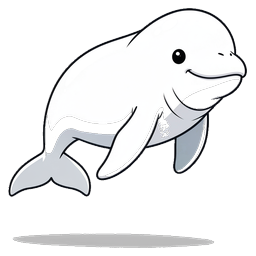
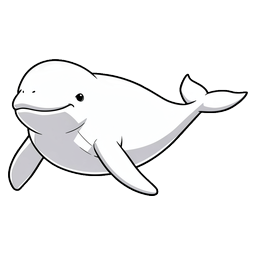
Finish batch_normal_03: 17 new anime-cel species, 325 total
Completes the batch that stalled on 2026-08-11 when the ComfyUI host
went unreachable (bullshark/thresher/goblinshark timed out, 14 reef fish
were never attempted). All 100 of batch 03 now log OK.

Also reruns beluga and bowhead, which shipped earlier with a detached
drop shadow the background remover leaves behind - it only clears
regions close to the corner colour and connected to an edge, so a
mid-grey shadow blob survives. bowhead additionally had a garbled text
artifact across the top. Found by scanning all 325 sprites for opaque
components detached from the main subject; numbat also flags but that
is its tail, and it is old painted-style art due for the restyle pass.

Verified via live bundle load: 325 PHOTO_ART entries, every one
resolving against DEX, no orphaned files.

diff --git a/game.part2.jsx b/game.part2.jsx
@@ -346,6 +346,7 @@ const PHOTO_ART = {
   "alpaca": true,
   "amazonriverdolphin": true,
   "andeancat": true,
+  "angelfish": true,
   "arcticfox": true,
   "arcticfox_j": true,
   "arctichare": true,
@@ -380,9 +381,12 @@ const PHOTO_ART = {
   "bonobo": true,
   "bottlenose": true,
   "bowhead": true,
+  "boxfish": true,
   "brownhyena": true,
   "brydeswhale": true,
+  "bullshark": true,
   "bushdog": true,
+  "butterflyfish": true,
   "camel": true,
   "capuchin": true,
   "capybara": true,
@@ -397,6 +401,7 @@ const PHOTO_ART = {
   "chital": true,
   "civet": true,
   "cloudedleopard": true,
+  "clownfish": true,
   "coati": true,
   "cobra": true,
   "cobra_j": true,
@@ -420,8 +425,10 @@ const PHOTO_ART = {
   "dugong": true,
   "duiker": true,
   "duskydolphin": true,
+  "eagleray": true,
   "echidna": true,
   "eland": true,
+  "electricray": true,
   "elephantseal": true,
   "elk": true,
   "epaulette": true,
@@ -450,6 +457,7 @@ const PHOTO_ART = {
   "giantotter": true,
   "gibbon": true,
   "giraffe": true,
+  "goblinshark": true,
   "gorilla": true,
   "grayfox": true,
   "graywhale": true,
@@ -497,6 +505,7 @@ const PHOTO_ART = {
   "linsang": true,
   "lion": true,
   "lion_j": true,
+  "lionfish": true,
   "llama": true,
   "loris": true,
   "lovebird": true,
@@ -507,6 +516,7 @@ const PHOTO_ART = {
   "makoshark": true,
   "mammoth": true,
   "manatee": true,
+  "mandarinfish": true,
   "mandrill": true,
   "manedwolf": true,
   "manedwolf_j": true,
@@ -548,6 +558,7 @@ const PHOTO_ART = {
   "pallascat": true,
   "panda": true,
   "pangolin": true,
+  "parrotfish": true,
   "peccary": true,
   "penguin": true,
   "pika": true,
@@ -559,6 +570,7 @@ const PHOTO_ART = {
   "proboscis": true,
   "pronghorn": true,
   "pudu": true,
+  "pufferfish": true,
   "puma": true,
   "pygmyhippo": true,
   "python": true,
@@ -582,6 +594,7 @@ const PHOTO_ART = {
   "rustyspottedcat": true,
   "saiga": true,
   "sandcat": true,
+  "sawfish": true,
   "scorpion": true,
   "seal": true,
   "sealion": true,
@@ -603,6 +616,7 @@ const PHOTO_ART = {
   "spidermonkey": true,
   "spinnerdolphin": true,
   "springbok": true,
+  "stingray": true,
   "stoat": true,
   "stripedhyena": true,
   "sugarglider": true,
@@ -615,6 +629,7 @@ const PHOTO_ART = {
   "tarsier": true,
   "tasdevil": true,
   "tayra": true,
+  "thresher": true,
   "tibetanfox": true,
   "tiger": true,
   "tiger_j": true,
@@ -622,6 +637,7 @@ const PHOTO_ART = {
   "topi": true,
   "tortoise": true,
   "treekangaroo": true,
+  "triggerfish": true,
   "turtle": true,
   "uakari": true,
   "vaquita": true,
@@ -644,6 +660,7 @@ const PHOTO_ART = {
   "wolf_j": true,
   "wolverine": true,
   "wombat": true,
+  "wrasse": true,
   "yak": true,
   "zebra": true,
   "zebrashark": true,
